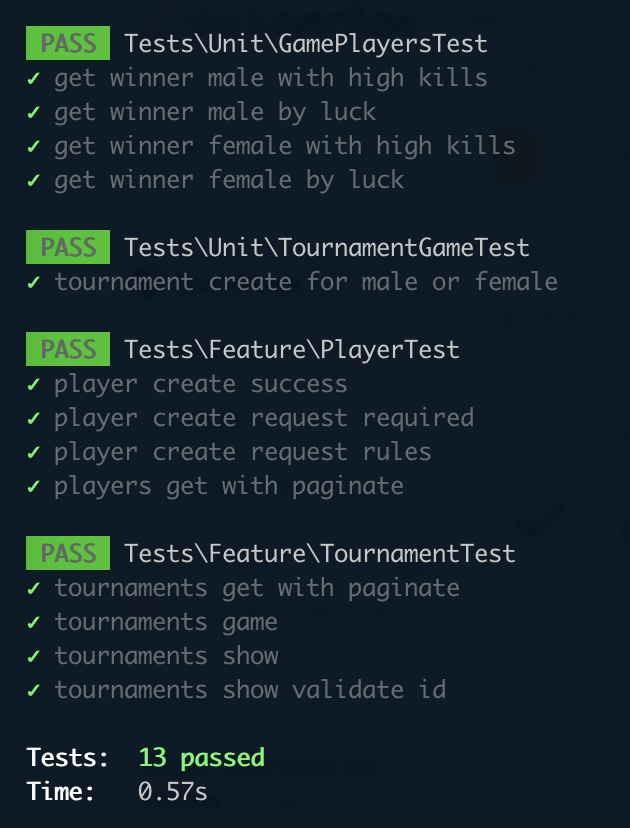
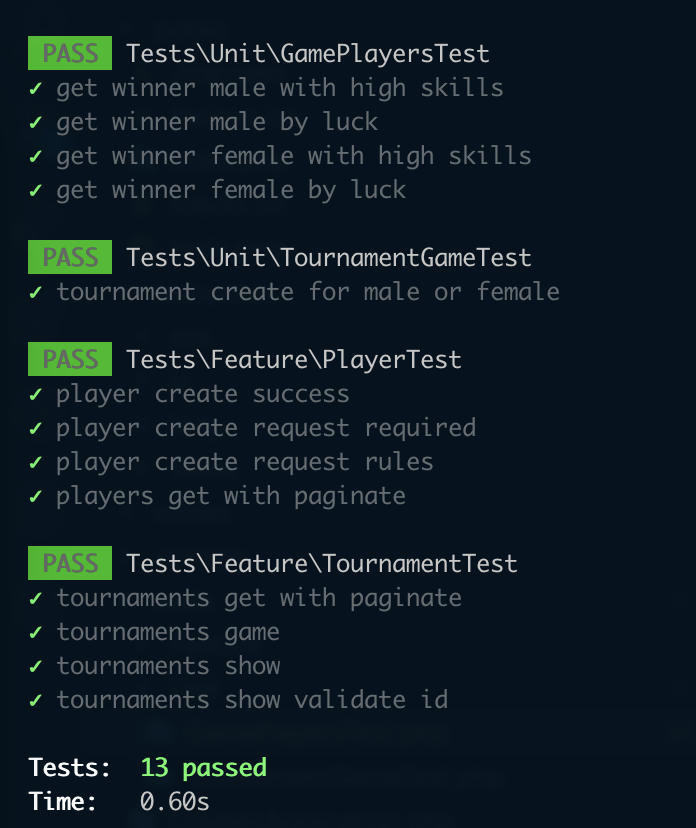
fixed typos in test and reupload img

diff --git a/tests/Unit/GamePlayersTest.php b/tests/Unit/GamePlayersTest.php
@@ -19,7 +19,7 @@ class GamePlayersTest extends TestCase
         $this->lowSkills = ['skill' => 1, 'strength' => 1, 'speed' => 1, 'reaction' => 1];
     }
 
-    public function test_get_winner_male_with_high_kills()
+    public function test_get_winner_male_with_high_skills()
     {
         $playerOne = Player::factory()->male()->create($this->highSkills);
         $playerTwo = Player::factory()->male()->create($this->lowSkills);
@@ -49,7 +49,7 @@ class GamePlayersTest extends TestCase
         $playerTwo->delete();
     }
 
-    public function test_get_winner_female_with_high_kills()
+    public function test_get_winner_female_with_high_skills()
     {
         $playerOne = Player::factory()->female()->create($this->highSkills);
         $playerTwo = Player::factory()->female()->create($this->lowSkills);
